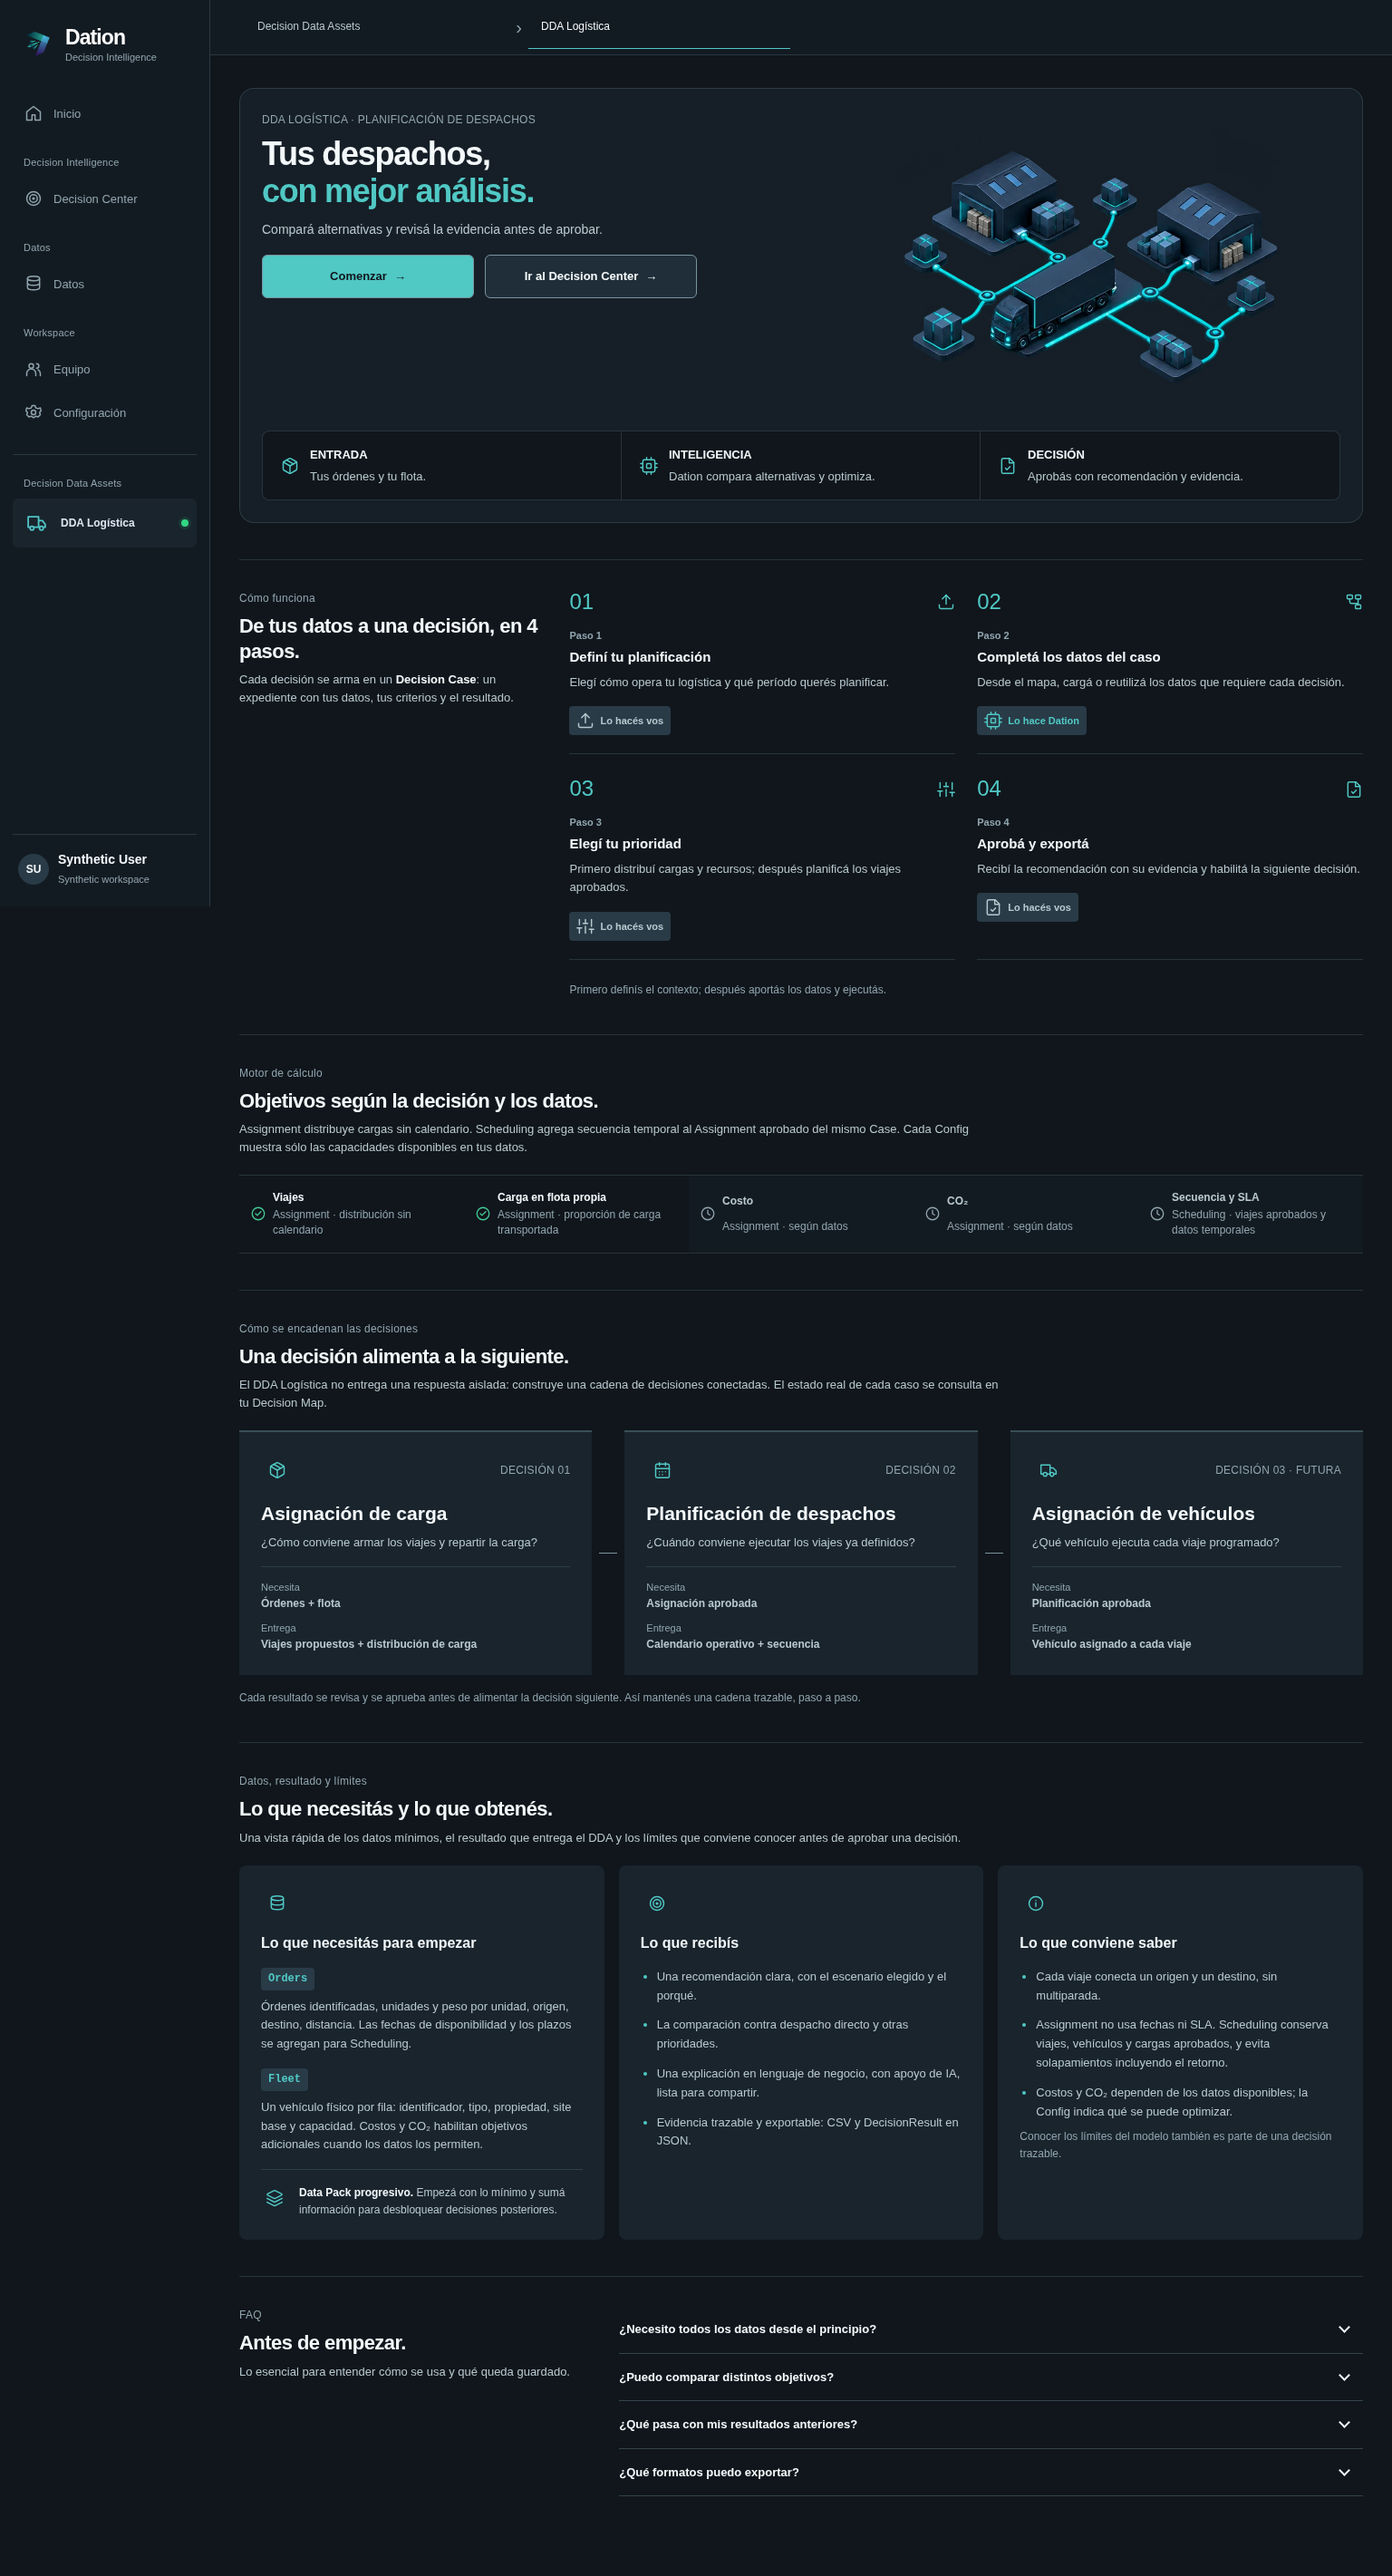
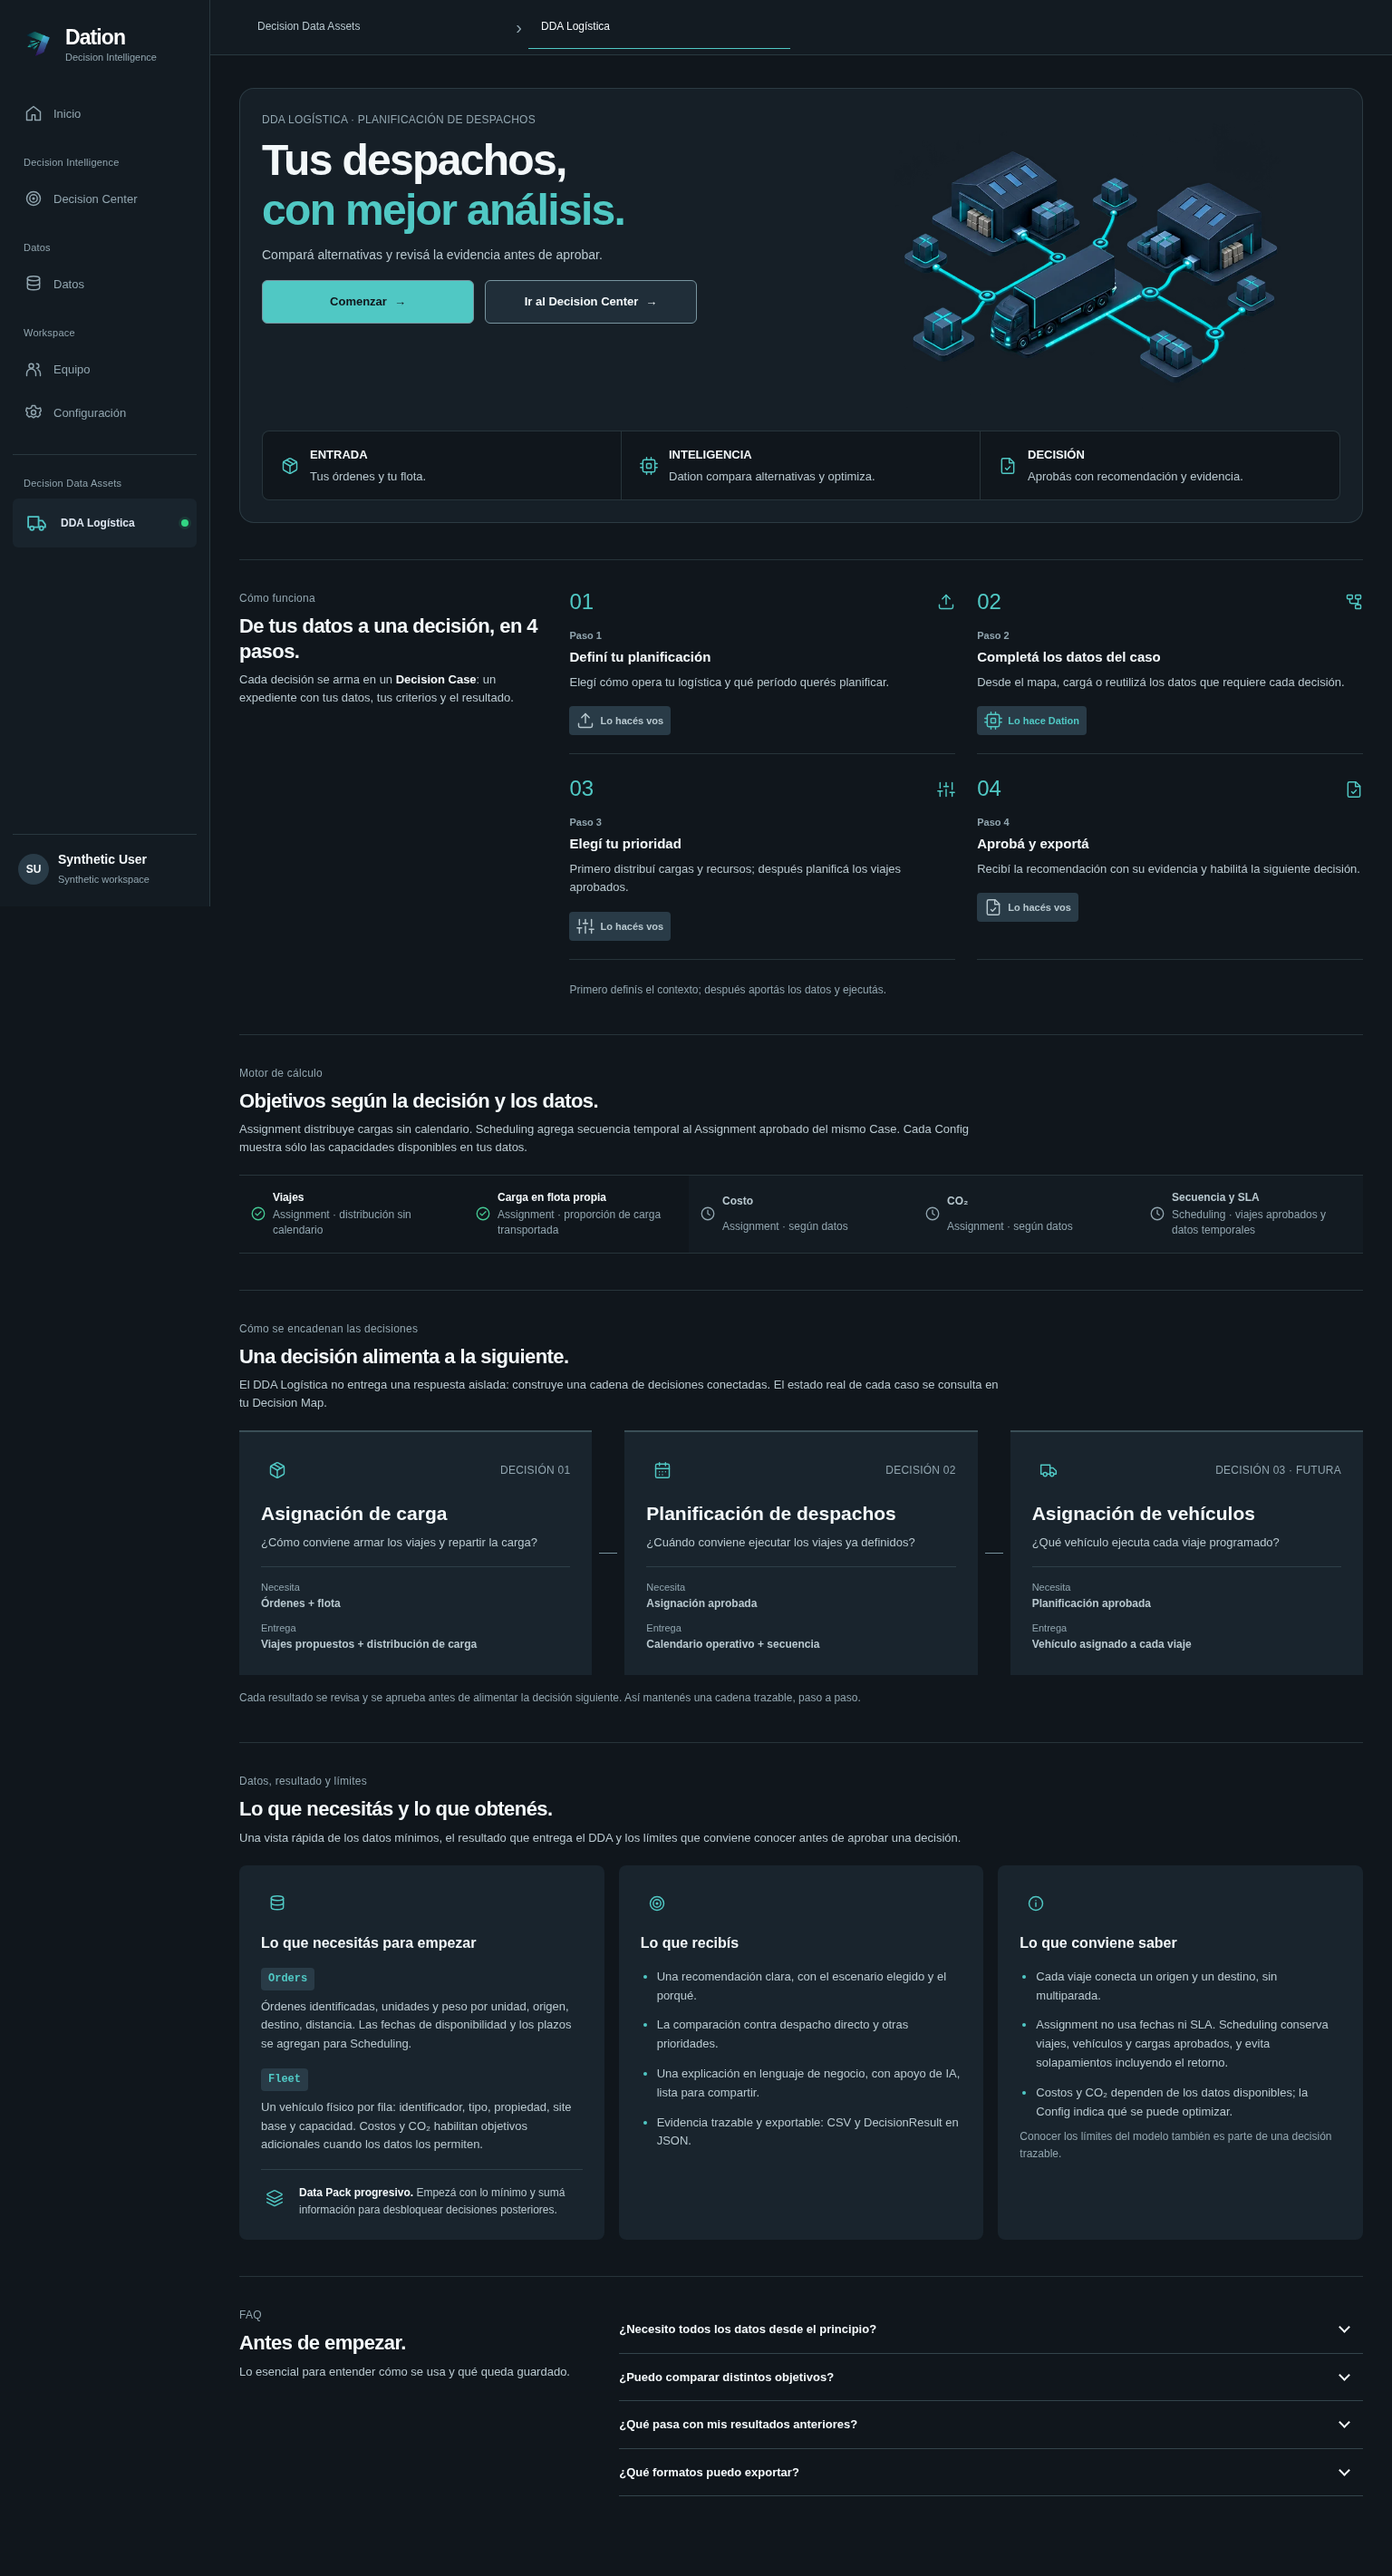
fix(ux07): enforce and verify the rendered landing hero scale

Changed region(s): [[0.1875, 0.031, 0.4688, 0.1239]]

diff --git a/backend/app/static/css/dda-logistics-landing.css b/backend/app/static/css/dda-logistics-landing.css
@@ -101,7 +101,7 @@
 /* DDA cover: editorial explanation beside the real decision chain. */
 .dda-landing{gap:40px}
 .dda-landing__hero{position:relative;isolation:isolate;overflow:hidden;grid-template-columns:minmax(0,1fr);gap:28px;padding:32px;min-height:420px;border:0;border-left:2px solid var(--color-brand);border-radius:0 var(--radius-lg) var(--radius-lg) 0}
-.dda-landing__hero h1{font-size:clamp(32px,3.8vw,48px);line-height:1.15;max-width:20ch;font-weight:650}
+.dda-landing .dda-landing__hero h1{font-size:clamp(32px,3.8vw,48px);line-height:1.15;max-width:20ch;font-weight:650}
 .dda-landing__eyebrow,.dda-landing__section-eyebrow{text-transform:none;font-weight:500;font-size:12px;letter-spacing:.02em;color:var(--color-text-muted)}
 .dda-landing__flow-node{padding:16px;border:0;border-right:1px solid var(--color-border);border-radius:0;background:none}
 .dda-landing__flow-node:last-child{border-right:0}

diff --git a/backend/tests/browser/test_visual_refinement_ux07.py b/backend/tests/browser/test_visual_refinement_ux07.py
@@ -70,6 +70,8 @@ class HomeRefinementTests(unittest.IsolatedAsyncioTestCase):
         await expect(self.page.locator('#journey-nav li')).to_have_count(2)
         for width in WIDTHS:
             await self.page.set_viewport_size({'width':width,'height':1000});await document_geometry(self,self.page,'landing-'+str(width))
+            title=await self.page.locator('.dda-landing__hero h1').evaluate('n=>parseFloat(getComputedStyle(n).fontSize)')
+            self.assertAlmostEqual(title,max(32,min(width*.038,48)),delta=.1)
             buttons=await self.page.locator('.dda-landing__hero-actions button').evaluate_all('ns=>ns.map(n=>n.getBoundingClientRect().toJSON())')
             self.assertEqual(len(buttons),2);self.assertAlmostEqual(buttons[0]['width'],buttons[1]['width'],delta=1);self.assertAlmostEqual(buttons[0]['height'],buttons[1]['height'],delta=1)
             if width in [1536,390]:await capture(self.page,'landing-'+str(width))

diff --git a/docs/development/ux07/QA.md b/docs/development/ux07/QA.md
@@ -6,7 +6,7 @@ Baseline `0e5e7c93e942822aaf8a38d1c60fd7db332b9f5d`; evidencia real local con Ch
 
 Geometría: 1536, 1280, 1024, 768, 390 y 320px, más reflow real al 200% en Core01/02/03 y Graph. [40 escenarios y contraste](evidence/geometry.json): cero overflow, cero fallos AA; contraste mínimo medido 4.531. [Headers/footers](evidence/core-metrics.json) a 1536px: 176/164px en los tres pasos; Previous y círculos de progreso 44px. [Grafo](evidence/graph-metrics.json): diámetros 220/176/176/220/220/220px, distancias consecutivas iguales en cada ancho; panel abierto/cerrado no cambia la geometría.
 
-La CI final se ejecuta una vez sobre el candidato estable mediante el workflow normal del PR. El clasificador sin cambios requiere R3 por el archivo unitario compartido; FAST y FULL son obligatorios. AC50 depende del estado terminal publicado en GitHub, y no se declara aprobado anticipadamente en esta evidencia local. El reporte final del PR vincula su SHA y completa ese gate sin crear un commit adicional sólo para registrar el resultado de la propia CI.
+La ejecución inicial 43971848532 fue cancelada tras detectar visualmente que el H1 de Landing seguía en 36px. El selector real y la comprobación de tamaño computado se corrigieron, y los tres casos focales de Landing/frame/arte pasaron. Se conservan las mediciones de vistas sin cambios y se sustituyen las seis de Landing. La CI integral final se completa sobre el candidato estable mediante el workflow normal del PR. El clasificador sin cambios requiere R3 por el archivo unitario compartido; FAST y FULL son obligatorios. AC50 depende del estado terminal publicado en GitHub, y no se declara aprobado anticipadamente en esta evidencia local. El reporte final del PR vincula su SHA y completa ese gate sin crear un commit adicional sólo para registrar el resultado de la propia CI.
 
 |Criterio|Aceptación del Master Plan|Estado|Verificación / evidencia|
 |---|---|---|---|

diff --git a/docs/development/ux07/IMPLEMENTATION.md b/docs/development/ux07/IMPLEMENTATION.md
@@ -32,6 +32,7 @@ Pruebas: `test_home_dda_catalog.mjs` separa explícitamente seis visibles de sie
 - Core/Graph usan el fixture funcional existente porque la prueba también publica un Model, guarda dos CSV y crea un Case real local. No hay conexión a datos productivos.
 - Se corrigieron una diferencia real de 3px en el footer de Contract por especificidad heredada y un solapamiento de Previous/progreso a 200% por la misma causa en la regla responsive.
 - La nueva prueba se ajustó para medir el footer efectivamente visible, en lugar del primero cuyo padre estaba oculto. El clic exterior selecciona el heading accesible de Studio, sin ambigüedad entre vistas desmontadas/ocultas.
+- La revisión visual final detectó que el H1 sin clases de Landing seguía en 36px por `.d-page-hero h1`. Se corrigió el selector dentro del contenedor real `.dda-landing` y se agregó una assertion del tamaño computado 32–48px en seis anchos. La CI anterior 43971848532 fue cancelada; no se completó otra suite integral para ese candidato.
 - La expectativa anterior que igualaba la altura del CTA Home con Landing ahora exige explícitamente 48px para Landing; conserva las restantes comprobaciones de frame, copy, ink, padding y Home. El nuevo test exige igualdad entre ambos CTA de Landing en seis anchos.
 
 No se editan `foundation-v2.json`, callbacks de publicación/carga, router, permisos, progreso real, backend, SQL, motores, infraestructura ni workflows. El clasificador vigente se conserva: el test unitario compartido es una ruta R3 y exige FULL además de FAST. No se evita ni se fuerza una degradación del riesgo.
